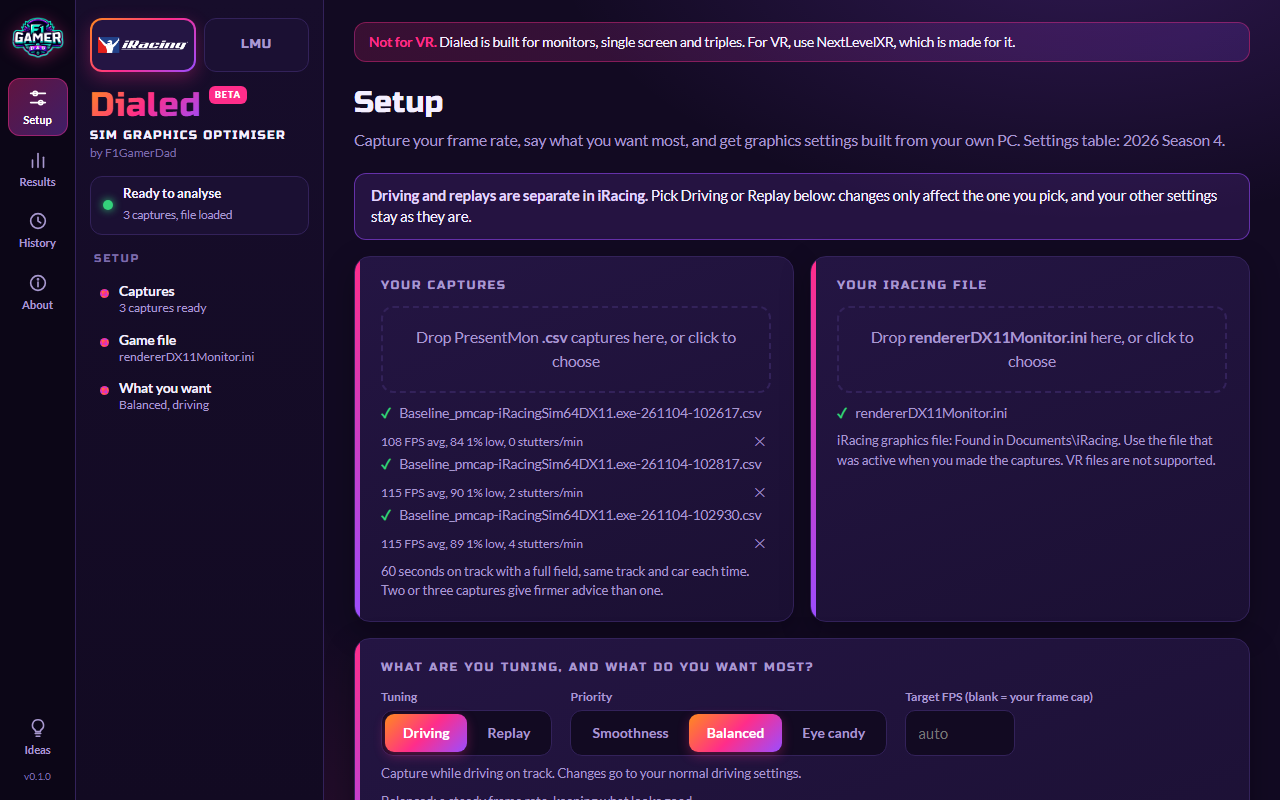
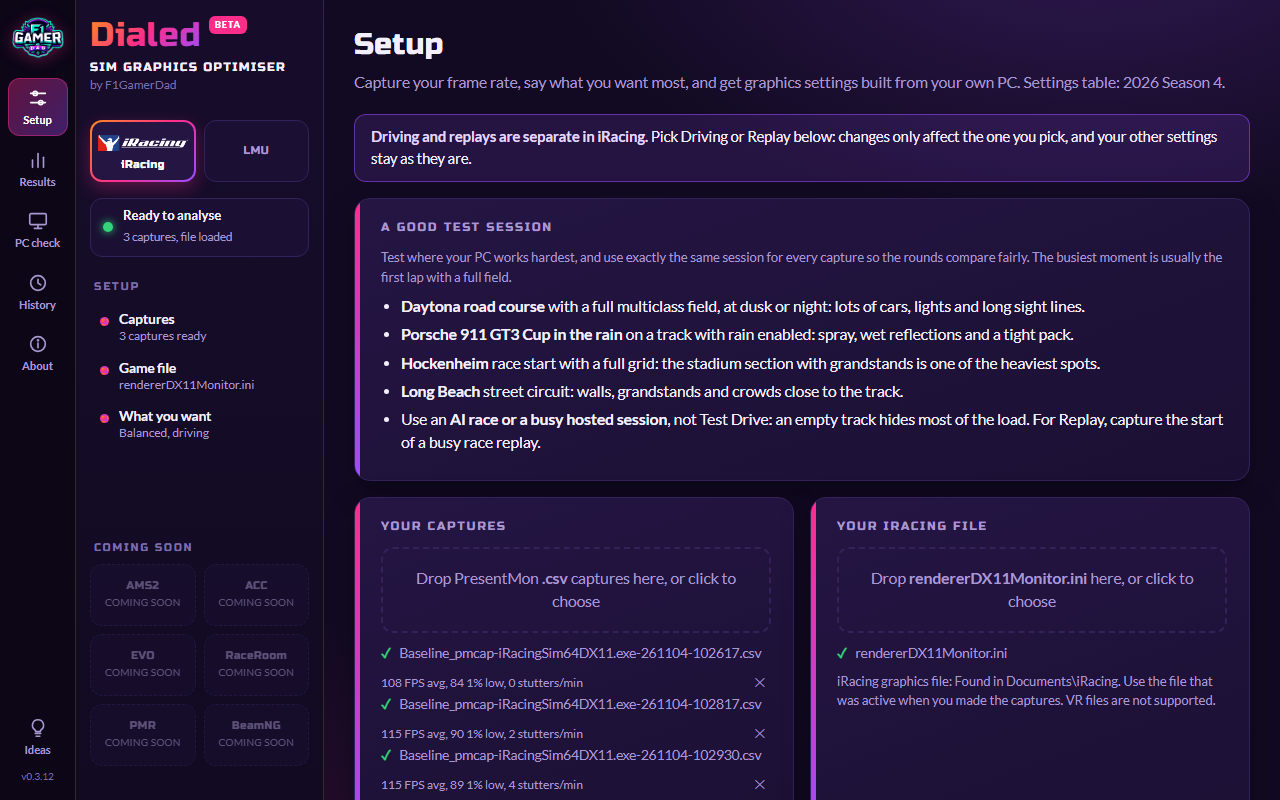
Website: fresh screenshots of the current app, Quick start (welcome video and six-step tour) section, PC check/frame-time/share images, sims section no longer says the six newest are live

diff --git a/docs/index.html b/docs/index.html
@@ -88,7 +88,7 @@ code { background:#0e0720; border:1px solid var(--line); border-radius:6px; padd
 <body>
 <nav class="top"><div class="wrap">
   <a class="brand" href="#top"><img src="assets/f1gd-logo.png" alt="">Dialed</a>
-  <a class="l" href="#how">How it works</a><a class="l" href="#sims">Sims</a><a class="l" href="#help">Help</a><a class="l keep" href="#download">Download</a>
+  <a class="l" href="#start">Quick start</a><a class="l" href="#how">How it works</a><a class="l" href="#sims">Sims</a><a class="l" href="#help">Help</a><a class="l keep" href="#download">Download</a>
 </div></nav>
 
 <header class="hero" id="top"><div class="wrap">
@@ -102,22 +102,37 @@ code { background:#0e0720; border:1px solid var(--line); border-radius:6px; padd
   </div>
   <p class="meta">Free beta · Windows 10 and 11 · 58 MB installer · no account</p>
   <div class="pills"><span class="pill"><b>iRacing</b> and <b>Le Mans Ultimate</b>, more sims coming</span><span class="pill">Backups and <b>undo</b></span><span class="pill"><b>Free</b> during the beta</span><span class="pill">Nothing <b>uploaded</b></span></div>
-  <div class="shot"><div class="frame"><img src="img/app-results.png" alt="Dialed's results screen: average FPS, 1% lows, what is limiting you and graphics memory use" width="1280" height="800"></div>
-  <p class="cap">Real screen, real captures. Here the graphics card is flat out and graphics memory is nearly full, so Dialed looks for savings there first.</p></div>
+  <div class="shot"><div class="frame"><img src="img/app-results.png" alt="Dialed's results screen: average FPS, 1% lows, what is limiting you and graphics memory use, with the frame-time chart below" width="1280" height="800"></div>
+  <p class="cap">Real screen, real captures. Here the graphics card is flat out and graphics memory is nearly full, so Dialed looks for savings there first. Below it, your frame times over the capture.</p></div>
 </div></header>
+
+<section id="start"><div class="wrap">
+  <p class="eyebrow">Quick start</p><h2>Your first five minutes.</h2>
+  <p class="sub">The first time you open Dialed it plays a short welcome video and then a six-step tour. Here is the same thing, so you know what to expect.</p>
+  <div class="frame"><video controls preload="none" playsinline poster="assets/intro-poster.jpg" width="1280" height="720" style="display:block;width:100%;height:auto;border-radius:10px;background:#000"><source src="assets/intro.mp4" type="video/mp4">Your browser cannot play this video.</video></div>
+  <p class="cap">The welcome video from inside the app. You can watch it again any time from About.</p>
+  <div class="grid" style="margin-top:34px">
+    <div class="card step"><span class="n">1</span><h3>Open Dialed first, then your sim</h3><p>Dialed needs Windows permission to measure your frame rate, so Windows asks when it opens. Open Dialed before you start your sim: that prompt can freeze a full-screen game. Set your game to Borderless Windowed so it stays on screen when you click another monitor.</p></div>
+    <div class="card step"><span class="n">2</span><h3>Pick your sim</h3><p>iRacing and Le Mans Ultimate today, with the rest coming soon. Dialed finds your games for you, and each sim keeps its own settings table and its own history.</p></div>
+    <div class="card step"><span class="n">3</span><h3>Capture three runs</h3><p>Start your game and press the hotkey while you drive. You get a spoken or beeped countdown, then 60 seconds are recorded. Do it three times in the same session, with a full grid on your heaviest track if you can, or let Dialed run all three for you.</p></div>
+    <div class="card step"><span class="n">4</span><h3>Get a short priority list</h3><p>Dialed works out whether your processor, graphics card or graphics memory is the limit, then lists the changes best first with their gain, visual cost and how sure it is. The top three are ticked for you.</p></div>
+    <div class="card step"><span class="n">5</span><h3>Apply safely, then check</h3><p>One click backs up your settings file, closes the sim after a big warning, and writes the change. Start the game, capture again, and Dialed tells you what each change did and what to put back.</p></div>
+    <div class="card step"><span class="n">6</span><h3>And there is more to explore</h3><p>The PC check finds problems outside the sim. Results draws your frame times and marks every stutter. Save profiles, share a before/after image, and tell Dialed how you race under About your setup.</p></div>
+  </div>
+</div></section>
 
 <section id="how"><div class="wrap">
   <p class="eyebrow">How it works</p><h2>Capture. Read. Change. Compare.</h2>
   <p class="sub">No guessing and no copying someone else's settings. Everything is worked out from your own frame data and your own settings file.</p>
   <div class="grid">
-    <div class="card step"><span class="n">1</span><h3>Capture</h3><p>Press a hotkey while you drive. Dialed records about a minute of frame data with Intel PresentMon, which it includes. Do it two or three times for firmer advice.</p></div>
+    <div class="card step"><span class="n">1</span><h3>Capture</h3><p>Press a hotkey while you drive. Dialed records about a minute of frame data with Intel PresentMon, which it includes. Do it three times for firmer advice, or let Dialed run three in a row for you.</p></div>
     <div class="card step"><span class="n">2</span><h3>Diagnose</h3><p>It works out your average FPS, your 1% lows and stutters, and whether the processor, graphics card or graphics memory is the limit.</p></div>
     <div class="card step"><span class="n">3</span><h3>Recommend</h3><p>A short priority list, best first. Each setting shows its gain, its visual cost, plain-English what you will see change, and how confident Dialed is. The top three are ticked for you.</p></div>
     <div class="card step"><span class="n">4</span><h3>Apply safely</h3><p>One click backs up your file into a visible <code>Dialed Backups</code> folder and writes the changes. If the sim is open, a big warning tells you it will close first.</p></div>
     <div class="card step"><span class="n">5</span><h3>Compare</h3><p>Capture again. Dialed remembers each round, tells you what every change did, and suggests what to put back if something made it worse.</p></div>
     <div class="card step"><span class="n">6</span><h3>Undo any time</h3><p>Restore any backup from inside the app. Your current file is backed up first, so even a restore can be undone.</p></div>
   </div>
-  <div class="shot"><div class="frame"><img src="img/app-recommendations.png" alt="Dialed's recommended changes list with gain, look, confidence and reasons" width="920" height="660" loading="lazy"></div>
+  <div class="shot"><div class="frame"><img src="img/app-recommendations.png" alt="Dialed's recommended changes list with gain, look, confidence and reasons" width="1280" height="800" loading="lazy"></div>
   <p class="cap">The priority list: what to change, how much load it takes off, how much you will notice it, and how sure Dialed is.</p></div>
 </div></section>
 
@@ -141,11 +156,17 @@ code { background:#0e0720; border:1px solid var(--line); border-radius:6px; padd
     <div class="card step"><h3>Three runs in a row</h3><p>Press once and Dialed records three runs back to back, with spoken cues in F1GamerDad's voice or plain beeps, your choice.</p></div>
     <div class="card step"><h3>Share your result</h3><p>Make a before/after image of your gain for Discord or a comment. It is made on your PC and nothing is uploaded.</p></div>
   </div>
+  <div class="shot"><div class="frame"><img src="img/app-pccheck.png" alt="Dialed's PC check: a list of things to fix on this PC, each with what to do about it" width="1280" height="800" loading="lazy"></div>
+  <p class="cap">The PC check on an example PC with a screen left at 60 Hz and the Balanced power plan. Each finding says what it found, why it matters and what to do.</p></div>
+  <div class="shot"><div class="frame"><img src="img/app-frametimes.png" alt="Dialed's frame-time chart: the slowest frame in each slice of a capture, with a stutter line" width="1280" height="800" loading="lazy"></div>
+  <p class="cap">Your frame times over a capture. Every stutter is marked, with a plain-language reading of what is causing it.</p></div>
+  <div class="shot"><div class="frame"><img src="img/app-share.png" alt="Dialed's share image: a before and after result card for Discord or a comment" width="1280" height="800" loading="lazy"></div>
+  <p class="cap">The share image, made on your PC for Discord or a comment. Nothing is uploaded.</p></div>
 </div></section>
 
 <section id="sims"><div class="wrap">
   <p class="eyebrow">Sims</p><h2>One app, one picker.</h2>
-  <p class="sub">Pick your sim at the top of the left pane. Each sim has its own settings table, its own history and a suggested heavy test session. Dialed finds your games through Steam.</p>
+  <p class="sub">Pick your sim under the Dialed name in the left pane. Each sim has its own settings table, its own history and a suggested heavy test session. Dialed finds your games through Steam.</p>
   <div class="sims">
     <div class="sim"><img src="assets/sims/iracing.png" alt="iRacing"><p>Driving and replay settings, kept separate.</p><span class="status">Supported</span></div>
     <div class="sim"><img src="assets/sims/lmu.png" alt="Le Mans Ultimate" loading="lazy"><p>Reads both of its settings files and changes them together, or not at all.</p><span class="status">Supported</span></div>
@@ -156,7 +177,7 @@ code { background:#0e0720; border:1px solid var(--line); border-radius:6px; padd
     <div class="sim"><img src="assets/sims/beamng.png" alt="BeamNG.drive" loading="lazy"><p>Uses BeamNG's own quality levels and its own cost ratings.</p><span class="status soon">Coming soon</span></div>
     <div class="sim"><img src="assets/sims/acevo.png" alt="Assetto Corsa EVO" loading="lazy"><p>Shadows, ambient occlusion and visible cars so far. More to come.</p><span class="status soon">Coming soon</span></div>
   </div>
-  <p class="meta" style="margin-top:14px">The six newest sims are brand new and have not been through long testing on track. Their suggestions are shown as low confidence and only ever lower a setting. Treat them as a good starting point and tell me what you find with the Report button.</p>
+  <p class="meta" style="margin-top:14px">iRacing and Le Mans Ultimate come first. The other six are built and still being tested on track, and arrive as free updates. They are shown in the app as Coming soon, and you can say which one you want most with the Ideas button.</p>
 </div></section>
 
 <section id="download"><div class="wrap">
